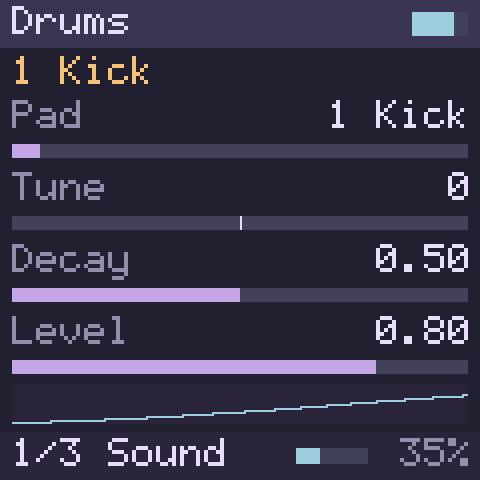
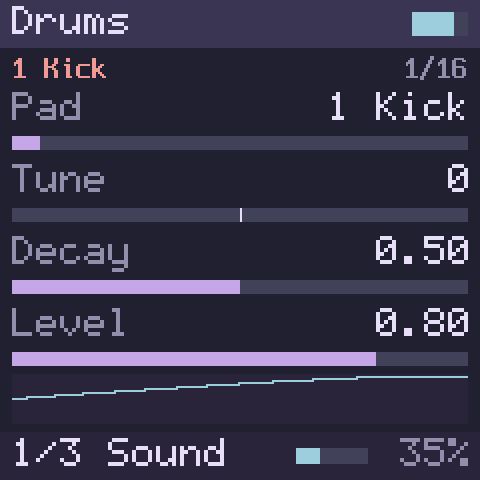
Docs: the README's and manual's screenshots retaken on the audit's screens; the audit note's Built status and integration review; the ARP pages' screen in the manual
- assets/screenshots/: every picture retaken in one run of
  readme-screenshots.mjs (build-on-aeon.sh --readme-screenshots) on the
  938,771 B module, names kept; parity.png came out byte-identical. Each
  was looked at; the README's table of them says what each now shows.
- notes/2026-10-06-ui-audit.md: a short "Built" table near the top (each
  proposal and what it became); §9's D9 table gains the ARP's two lists;
  the dense-screen table's MATRIX hint and gesture rows; a new
  "Integration and review" section (what the review changed, the colour
  map's audit of gold and rose, SMALL's one use and its legibility).
- manual chapter 4: what the ARP pages' context line says and their
  lists; PALETTE.md: a latched arp and a live take under gold.

Changed region(s): [[0.0, 0.0938, 1.0, 0.8438], [0.0312, 0.8125, 0.6875, 0.875], [0.0312, 0.875, 0.2188, 0.9062]]

diff --git a/notes/2026-10-06-ui-audit.md b/notes/2026-10-06-ui-audit.md
@@ -11,6 +11,26 @@ within the Rose Pine theme and related colors."
 mockups. **No app code changed on this branch**: the owner picks proposals
 first, and each picked one becomes its own change.
 
+**Built** (2026-10-06, on `feature/2026-10-06@ui-colour-type`; §9 has the
+detail and the measurements). The owner adopted every proposal (§7), and
+each is now on the screen [verified: `fm1-sim-render --screens`, 3,336
+screens, 0 faults, every family looked at]:
+
+| Proposal | Built as |
+| --- | --- |
+| Q1, D9 lists | Long lists eight entries in MID (Spleen 8×16) by full names; short ones whole in MAIN; a knob on a list of 5+ entries opens it (D1) |
+| Q2 refusals | Full popup, rules and reason in love |
+| Q3 modulation | Label in foam at full length, foam bracket, live tick in text |
+| Q4 context | The line under the title bar (HOME's model and place, SEQ's headings, the ARP pages' state) and list titles in rose; hints in text |
+| Q5 FX strip | The chosen slot an iris chip (gold while held), its effect and role on the next line |
+| Q6 GLO | "M1"/"M2" with the effects' names |
+| L1 banners | One-line confirmations in a 28 px band between iris rules |
+| L2 MATRIX | One multi-colour run a row; nine rows of 28 characters |
+| L3 sound colours | Nebula, nova, aurora, comet (`sim/web/PALETTE.md`) wherever a sound is named |
+| L4 short pages | HOME's and the ARP pages' scope grows into empty rows |
+| Seen but not mocked | "120 BPM" and 8 × 12 px track cells in the sounds' colours; one look for "selected" (the iris bar) |
+| D7, D8 | Spleen 8×16 and 6×12 beside the 5×9; the page's chrome on the same colour map |
+
 **The list fix landed first.** While this audit was being written, PR #64
 built the change the owner asked for: list popups with six entries, a
 title and the place in the list. This note was brought up to date after
@@ -805,6 +825,8 @@ entry may have):
 | Capture's tempos | 1–3 | 3 / 18 | MAIN 3 / 18 | title "Capture tempo" |
 | RACK's kind picker | 17 | 6 / 18 | MID 8 / 27 | the kinds' names, at most 9 ("Resonator"); title "Mod7 kind" |
 | MATRIX's destination picker | 46–93 | 6 / 18, names cut at 18 | MID 8 / 27 | every name in full, at most 17 ("S1 In2 High Xover"); "S1"–"S4" in the sounds' colours |
+| ALGORITHM on the ARP pages (the stock presets; PR #69, merged after this table was first drawn) | 6 | 6 / 18 | MAIN 6 / 18: all six | Up, Down, Up/Down, Down/Up, Random, Played; at most 7 |
+| A knob on an ARP list (Mode, Rate, Pattern, Oct Mode, Repeat) | 5–23 | 1 value on the row | MID 8 / 27 | the arp's own names, at most 12 ("Down Low Oct") |
 
 **Choices.**
 - **MID for every long list.** It shows two more entries than MAIN and
@@ -880,15 +902,64 @@ characters a line or name may have):
 | --- | --- | --- |
 | MATRIX's rows | MAIN 7 rows / 19, the destination in 7 ("S1Tmbre", "M2PngPg", "ENV3Gte") | MID 9 rows / 28, the destination in 16 by its full name: 598 of the 603 names the sweep's racks and engines produce; the other 5 keep the full parameter after a short tag ("S1I2 High Xover") |
 | MATRIX's page B | VIA 5, the curve and polarity in 3 and 2 ("sqr", "au") | VIA 6, the curve and polarity by name ("square", "auto") |
-| MATRIX's hint line | MAIN 19, gold | MID 28, text: "To S1 In2 High Xover" whole |
+| MATRIX's hint line | MAIN 19, gold | MID 28, text: "To S1 In2 High Xover" whole, its "S1" in the sound's colour; love while the chosen cable is refused ("Voice: refused") |
 | CHAIN | MAIN 8 lines / 19, a destination's parameter by its abbreviation cut at 6 ("S1 EnvMor") | MID 10 lines / 28, full names ("S1 Env Morph") |
 | RACK's line | MAIN "LFO6 >0 <7 ~1 v3" | MID "LFO6  0 out  7 in  1 late  3 voices" (SMALL when it would pass 28) |
 | SHIFT's legend | MAIN 6 rows / 19 ("Metro off", "Full vel off", "Quant 0%") | MID 6 rows / 28 ("Metronome off", "Full velocity off", "Clip quantize 0%") |
 | Track page 2's lanes | MAIN 8 / names cut at 13 | MID 8 under a heading / names to 22–24 beside a base of 3 to 1 digits (a label holds at most 23) |
-| The gesture's popup | "LFO1 > S1Tmbre" | "LFO1 > S1 Timbre" (as full as a popup line holds) |
+| The gesture's popup | "LFO1 > S1Tmbre" / "+25%" | a MID banner, "LFO1 > S1 Timbre +25%", its "S1" in the sound's colour |
 | The track strip | cells 5 × 14 px beside "120.00 BPM" | cells 8 × 12 px (the focused 8 × 18) beside "120 BPM" |
 
 **Limits.** Legibility of MID and SMALL on the FM-1's own panel is
-untested: no build runs on an FM-1 (CLAUDE.md, the one rule). The README's
-screenshots predate these screens and are left for after both lanes
-merge.
+untested: no build runs on an FM-1 (CLAUDE.md, the one rule).
+
+### Integration and review
+
+The palette, fonts, app and SEQ/MOD lanes were merged on
+`feature/2026-10-06@ui-colour-type`, then `origin/main` with the idle paths
+(PR #70), Shapes' clamps (PR #71) and the arpeggiator (PR #69). Every
+family was then drawn again and looked at as contact sheets at ×2 [verified:
+`fm1-sim-render --screens`: 3,336 screens, 0 faults; 31,021 MAIN, 8,648 MID and 1 SMALL text boxes]. What
+the review changed:
+
+- **The ARP pages** (PR #69 drew them before the audit) now follow it: their
+  state on the context line ("Arp on" in rose, "Arp latched" in gold, the
+  held colour, since a latched arp holds its notes; "Arp off" subtle) with
+  the stock preset on the right as a list's place; rows from
+  `CONTEXT_NEXT_Y`; the scope grows on the one-parameter SEED page (L4);
+  the presets' list whole in MAIN; a knob on a list of five or more opens
+  it (D1: Mode, Rate, Pattern, Oct Mode, Repeat, now in the sweep); "Arp /
+  does not fit" is a refusal in love (Q2). Its gold "model colour" line was
+  the last use of `C_MODEL`.
+- **Sound colours everywhere a sound is named (L3):** a sound unit's own
+  sources (S1NOTE … S4RTRG) in MATRIX, VIA and CHAIN have their "S<n>" in
+  the sound's colour, as destinations did; so do MATRIX's hint ("To S1
+  Timbre"), the banners (the gesture's "LFO1 > S1 Harmonics +12%") and
+  popup lines (`fm1_look_sound_text`). A refusal stays one colour, whole.
+- **MATRIX's hint is love while the chosen cable is refused**, so the
+  refusal keeps a colour when its row sits on the selection bar.
+- **One tempo format:** Capture's "at 117.5 BPM" as the status line writes
+  it (it said "117.50 BPM").
+- **No stray accents:** the unused legacy names `C_MODEL` (gold),
+  `C_ACCENT`, `C_WARN`, `C_SCOPE`, `C_METER` and `C_PLAY` are gone, so a
+  screen reaches an accent only through its role. Gold is drawn for held
+  steps, locks and lanes, a grabbed module or FX slot, the count-in, a
+  live take and a latched arp, and nothing else [verified: every
+  `C_HELD` in `sim/web/src`]. Rose never shares a line with love or sits
+  next to it: the nearest pair is the Track view's rose model line and its
+  love REC or STEP, at opposite ends of the screen; step record replaces
+  the model line with its love head; MATRIX's hint, the one line under
+  love rows, is text or love.
+- **SMALL in the sweep:** RACK's line is SMALL only past MID's 28
+  characters; the new `rack-voices-small` screen ("ENV3  2 out  2 in  1
+  late  3 voices") is the sweep's one SMALL box. Looked at ×2 and ×4 it
+  reads cleanly (8 px capitals, about 0.9 mm on the panel [inferred]); it
+  stays a fallback for secondary lines, never a list.
+- **Numbers' padding:** every value, place ("34/96"), meter percentage and
+  tempo keeps at least the 4 px rule from its neighbour, and in practice a
+  character's width or more (looked at on every family).
+- **D9 across every list:** every list and multi-entry popup draws through
+  one function (`draw_list`: a rose MID title, the place in subtle, the
+  entries, the iris bar, the triangles); the table above gains the ARP's
+  two lists. No list is in SMALL: the longest full name in any list is 19
+  characters ("Chaotic Feedback FM").

diff --git a/assets/screenshots/README.md b/assets/screenshots/README.md
@@ -4,27 +4,29 @@ Pictures of Lunar Modulator in the virtual FM-1 (`sim/web/`), for the
 README, the user manual (`{{screen NAME ...}}` figures) and DEVELOPERS.md
 (the parity figure). Taken on 2026-10-06 in headless Chromium 153
 (Playwright 1.63) from `sim/web/www/` as committed with them (`fm1.wasm`
-850,731 B, `adbfb8be…`), all in one run of
-`sim/web/test/readme-screenshots.mjs`. `screen-fm6.png` is new since
-2026-10-06, and the others were retaken with their names kept (from one
-run to the next only what moves with the sound differs: the oscilloscope
-strips, the meters and the lit keys).
+938,771 B, `ff98599f…`), all in one run of
+`sim/web/test/readme-screenshots.mjs`, after the UI audit's screens
+landed (`notes/2026-10-06-ui-audit.md`: the colour map, the Spleen faces,
+the context line, FX mode's chip, MATRIX in colour, the track strip by
+sound). They were retaken with their names kept; `parity.png` came out
+byte-identical. From one run to the next only what moves with the sound
+differs: the oscilloscope strips, the meters and the lit keys.
 
 | File | What it shows |
 | --- | --- |
-| `virtual-fm1.png` | The page at 1440 px: the name, the to-scale panel, Macro (VA Pair) through Plate with LFO1 cabled to Timbre (the gold diamond, bracket and red tick on its row), a C minor chord held (three key LEDs) while the demo pattern plays (PLAY/STOP lit). REC is dark: the chord went down before PLAY/STOP, which empties Capture |
-| `screen-macro.png` | The firmware's screen, Macro on VA Pair, while a C major chord sounds |
+| `virtual-fm1.png` | The page at 1440 px: the name, the to-scale panel, Macro (VA Pair) through Plate with LFO1 cabled to Timbre (its name, and the bracket on its bar, in the modulation colour, the live tick white), a C minor chord held (three key LEDs) while the demo pattern plays (PLAY/STOP lit). REC is dark: the chord went down before PLAY/STOP, which empties Capture |
+| `screen-macro.png` | The firmware's screen, Macro on VA Pair (the context line: VA Pair, 5/8), while a C major chord sounds |
 | `screen-shapes.png` | Shapes on Pluck |
-| `screen-macro-heavy.png` | Macro Heavy on Str Machine (its string machine model) |
+| `screen-macro-heavy.png` | Macro Heavy on Str Machine, named in full on the context line (String Machine) |
 | `screen-sixop.png` | Six-Op FM on its default patch, E.PIANO 1 |
 | `screen-fm6.png` | FM6 on its first voice, TINE EP, while a C major chord sounds |
 | `screen-sophie.png` | Sophie's kick pad, 50 ms after MIDI note 36 |
 | `screen-drums.png` | Drums' kick pad (the Deep kit), 50 ms after MIDI note 36 |
-| `screen-fx.png` | FX mode: the chain S1 In1 In2 Mix M1 M2, Plate in M1, PSX Verb in M2 chosen, and its first page |
+| `screen-fx.png` | FX mode: the chain S1 In1 In2 Mix M1 M2 (S1 in Sound 1's blue), Plate in M1, PSX Verb in M2 chosen (the lilac chip; "PSX Verb", "master" on the next line), and its first page |
 | `screen-params.png` | Macro's first page after KNOB1–4 turned (2-op FM, 0.68, 0.28, 0.81) |
 | `panel-params.png` | The same on the panel, with the four knobs turned; the chord is held, and a start and stop of the transport emptied Capture, so REC is dark |
-| `screen-seq.png` | SEQ mode's Track view while the demo pattern plays: the status line, the grid with the playhead, the knob strip, the hint line |
-| `screen-matrix.png` | The modulation matrix: the default rack's two RTRG cables and LFO1's cable to Sound 1's Timbre, chosen |
+| `screen-seq.png` | SEQ mode's Track view while the demo pattern plays: the status line (120 BPM, the eight tracks in Sound 1's blue, the first focused, PLAY), the grid with the playhead, the knob strip, the model line |
+| `screen-matrix.png` | The modulation matrix: the default rack's two RTRG cables and LFO1's cable to Sound 1's Timbre, chosen; sources in the modulation colour, the hint "To S1 Timbre" |
 | `parity.png` | The browser module's output against native `fm1-render`: 25 ms of Six-Op FM, and 0 of 105,882 samples different over the whole render |
 | `phone.png` | The page at 390 × 844 (2× pixels), in `virtual-fm1.png`'s state: the panel keeps playable sizes and scrolls sideways in its own box |
 

diff --git a/sim/web/PALETTE.md b/sim/web/PALETTE.md
@@ -50,7 +50,7 @@ Rosé Pine's own roles from rose-pine/palette's README [reported, read
 | subtle | `C_LABEL` | labels, secondary text, idle states (STOP), a list's place ("6/47"), FX mode's slot role ("insert") | text on the title bar or a highlight |
 | text | `C_HINT` (and `C_TEXT`) | values, list entries, the playhead, hints, modulation's live tick, MATRIX's destination and amount | — |
 | iris | `C_SELECT` / `--select` | selection and the value being edited: value bars, notes, the selected row, slot or chip (one look for "selected"), list triangles, popup and banner rules; on the page focus rings, links and accents | — |
-| gold | `C_HELD` / `--held` | held and locked: held steps, locks and lanes, the grabbed module or slot (FX mode's chip while SEL holds it), the count-in; on the page a lit LED | headings, titles, hints, modulation |
+| gold | `C_HELD` / `--held` | held and locked: held steps, locks and lanes, the grabbed module or slot (FX mode's chip while SEL holds it), the count-in, a live take, a latched arpeggiator; on the page a lit LED | headings, titles, hints, modulation |
 | foam | `C_LIVE`, `C_MOD` / `--live` | live signal and modulation: the scope, meters, PLAY, trig ticks, a modulated label and its range bracket, MATRIX's sources; on the page the power lever on | — |
 | love | `C_REFUSE` / `--refuse` | refusal, recording, over the limit: REC, STEP, step record's head, RAM over 100 %, clipping, refused cables, refusal popups | text on the title bar or a highlight |
 | rose | `C_CONTEXT` / `--context` | context: the line under the title bar (model, "Step 7", "Lock step 6", page headings) and a list popup's title | any line where love can appear (ΔE 13.1) |

diff --git a/manual/chapters/04-playing.md b/manual/chapters/04-playing.md
@@ -202,6 +202,13 @@ Turn [[SELECT]] for the page. [[KNOB1]] to [[KNOB4]] set the four values on
 it, and [[ALGORITHM]] steps through the stock FM-1's arpeggio modes: Up,
 Down, Up/Down, Down/Up, Random and Played.
 
+The line under the top bar says *Arp on* (rose), *Arp latched* (gold, the
+colour of what is held) or *Arp off* (grey), with the stock mode the
+settings make on the right, such as *Up*, when they make one.
+[[ALGORITHM]] shows the six modes as a list, and turning the knob of Mode,
+Rate, Pattern, Oct Mode or Repeat shows that value's list
+([chapter 3](03-panel-tour.md#lists)).
+
 | Page | [[KNOB1]] | [[KNOB2]] | [[KNOB3]] | [[KNOB4]] |
 | --- | --- | --- | --- | --- |
 | 1 PLAY | Mode: the order of the notes | Rate: how long a step is, 1/32 triplet to a whole note, or TRG | Gate: how long each note sounds, 1 to 200 % of the step | Octaves: 1 to 4 |
